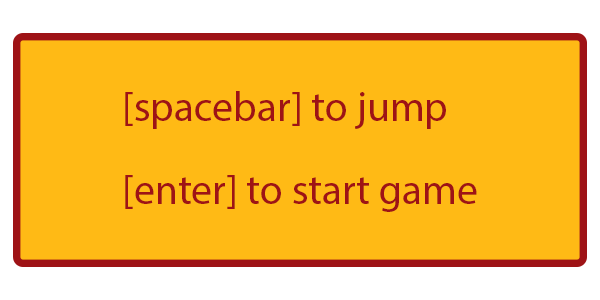
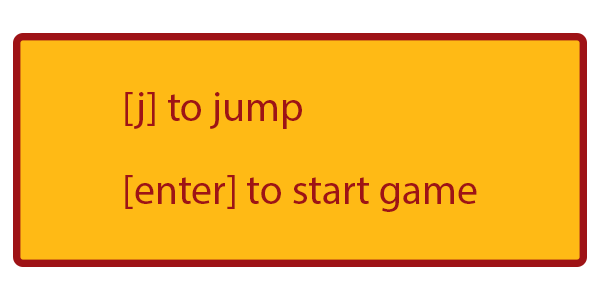
changes made to game design

Changed region(s): [[0.21, 0.3, 0.75, 0.45]]

diff --git a/mod3final_frontend/src/index.js b/mod3final_frontend/src/index.js
@@ -23,6 +23,7 @@ document.addEventListener('DOMContentLoaded', function () {
   function showForm() {
     let modal = document.querySelector(".modalNEW")
     modal.classList.toggle("show-modalNEW")
+    form_active = true
   }
 
 //*****************working projectile loop code*************
@@ -78,7 +79,7 @@ document.addEventListener('DOMContentLoaded', function () {
   let game_end = false
   let demoState = true
   let gameSpeed = 15
-
+  let form_active = false
 
 
 
@@ -190,11 +191,13 @@ document.addEventListener('DOMContentLoaded', function () {
   }
 
 //*********EVENT LISTENERS**************
+
+
   document.addEventListener("keydown", ev => {
 
     let keyPressed = ev.keyCode
-    ev.preventDefault()
-    if (keyPressed === 32) {
+
+    if (keyPressed === 74 && !game_end) {
      jump_up()
      canvas.innerHTML += '<audio src="./src/images/jump.wav" autoplay="autoplay">'
    }
@@ -202,7 +205,7 @@ document.addEventListener('DOMContentLoaded', function () {
 
   document.addEventListener("keydown", ev => {
    let keyPressed = ev.keyCode
-   if (keyPressed === 78 && game_end) {
+   if (keyPressed === 78 && game_end && !form_active) {
      ctx.clearRect(0, 0, width, height)
     location.reload()
    }
@@ -210,7 +213,7 @@ document.addEventListener('DOMContentLoaded', function () {
 
   document.addEventListener("keydown", ev => {
     let keyPressed = ev.keyCode
-    if (keyPressed === 13) {
+    if (keyPressed === 13 && !form_active) {
       console.log('key down detected, demoState is', demoState)
       state.projectile_position.x = p_width
      demoState = false
@@ -219,7 +222,16 @@ document.addEventListener('DOMContentLoaded', function () {
 
   document.addEventListener("keydown", ev => {
     let keyPressed = ev.keyCode
-    if (keyPressed === 83 && game_end) {
+    if (keyPressed === 83 && game_end && !form_active) {
+      showForm()
+      console.log('showing form')
+     demoState = false
+   }
+  })
+
+  document.addEventListener("keydown", ev => {
+    let keyPressed = ev.keyCode
+    if (keyPressed === 77 && game_end && !form_active) {
       showForm()
       console.log('showing form')
      demoState = false
@@ -229,17 +241,12 @@ document.addEventListener('DOMContentLoaded', function () {
   document.addEventListener("keydown", ev => {
     let keyPressed = ev.keyCode
     if (keyPressed === 77 && game_end) {
-      showForm()
-      console.log('showing form')
-     demoState = false
-   }
-  })
+      form_active = true
+      console.log('showing form, form_active is', form_active)
 
-  document.addEventListener("keydown", ev => {
-    let keyPressed = ev.keyCode
-    if (keyPressed === 77 && game_end) {
-      showForm()
-      console.log('showing form')
+        showForm()
+
+
      demoState = false
    }
   })
@@ -358,5 +365,6 @@ formField.addEventListener("submit", ev => {
 	}
 	adapter.createPlayer(playerName).then(player => {
 		renderPlayerName(player)
+    form_active = false
 	})
 }) // end of the submit action

diff --git a/mod3final_frontend/index.html b/mod3final_frontend/index.html
@@ -129,11 +129,11 @@
           <div class="container">
             <div class="row">
               <div class="col l6 s12">
-                <h5 class="white-text">Footer Content</h5>
-                <p class="grey-text text-lighten-4">You can use rows and columns here to organize your footer content.</p>
+                <h5 class="white-text"></h5>
+                <p class="grey-text text-lighten-4"></p>
               </div>
               <div class="col l4 offset-l2 s12">
-                <h5 class="white-text">Links</h5>
+                <h5 class="white-text"></h5>
                 <!-- <ul>
                   <li><a class="grey-text text-lighten-3" href="#!">Link 1</a></li>
                   <li><a class="grey-text text-lighten-3" href="#!">Link 2</a></li>

diff --git a/mod3final_frontend/src/style.css b/mod3final_frontend/src/style.css
@@ -19,6 +19,7 @@
 
 #footer{
   background: #9e1316;
+  height: 180px;
 }
 
 
